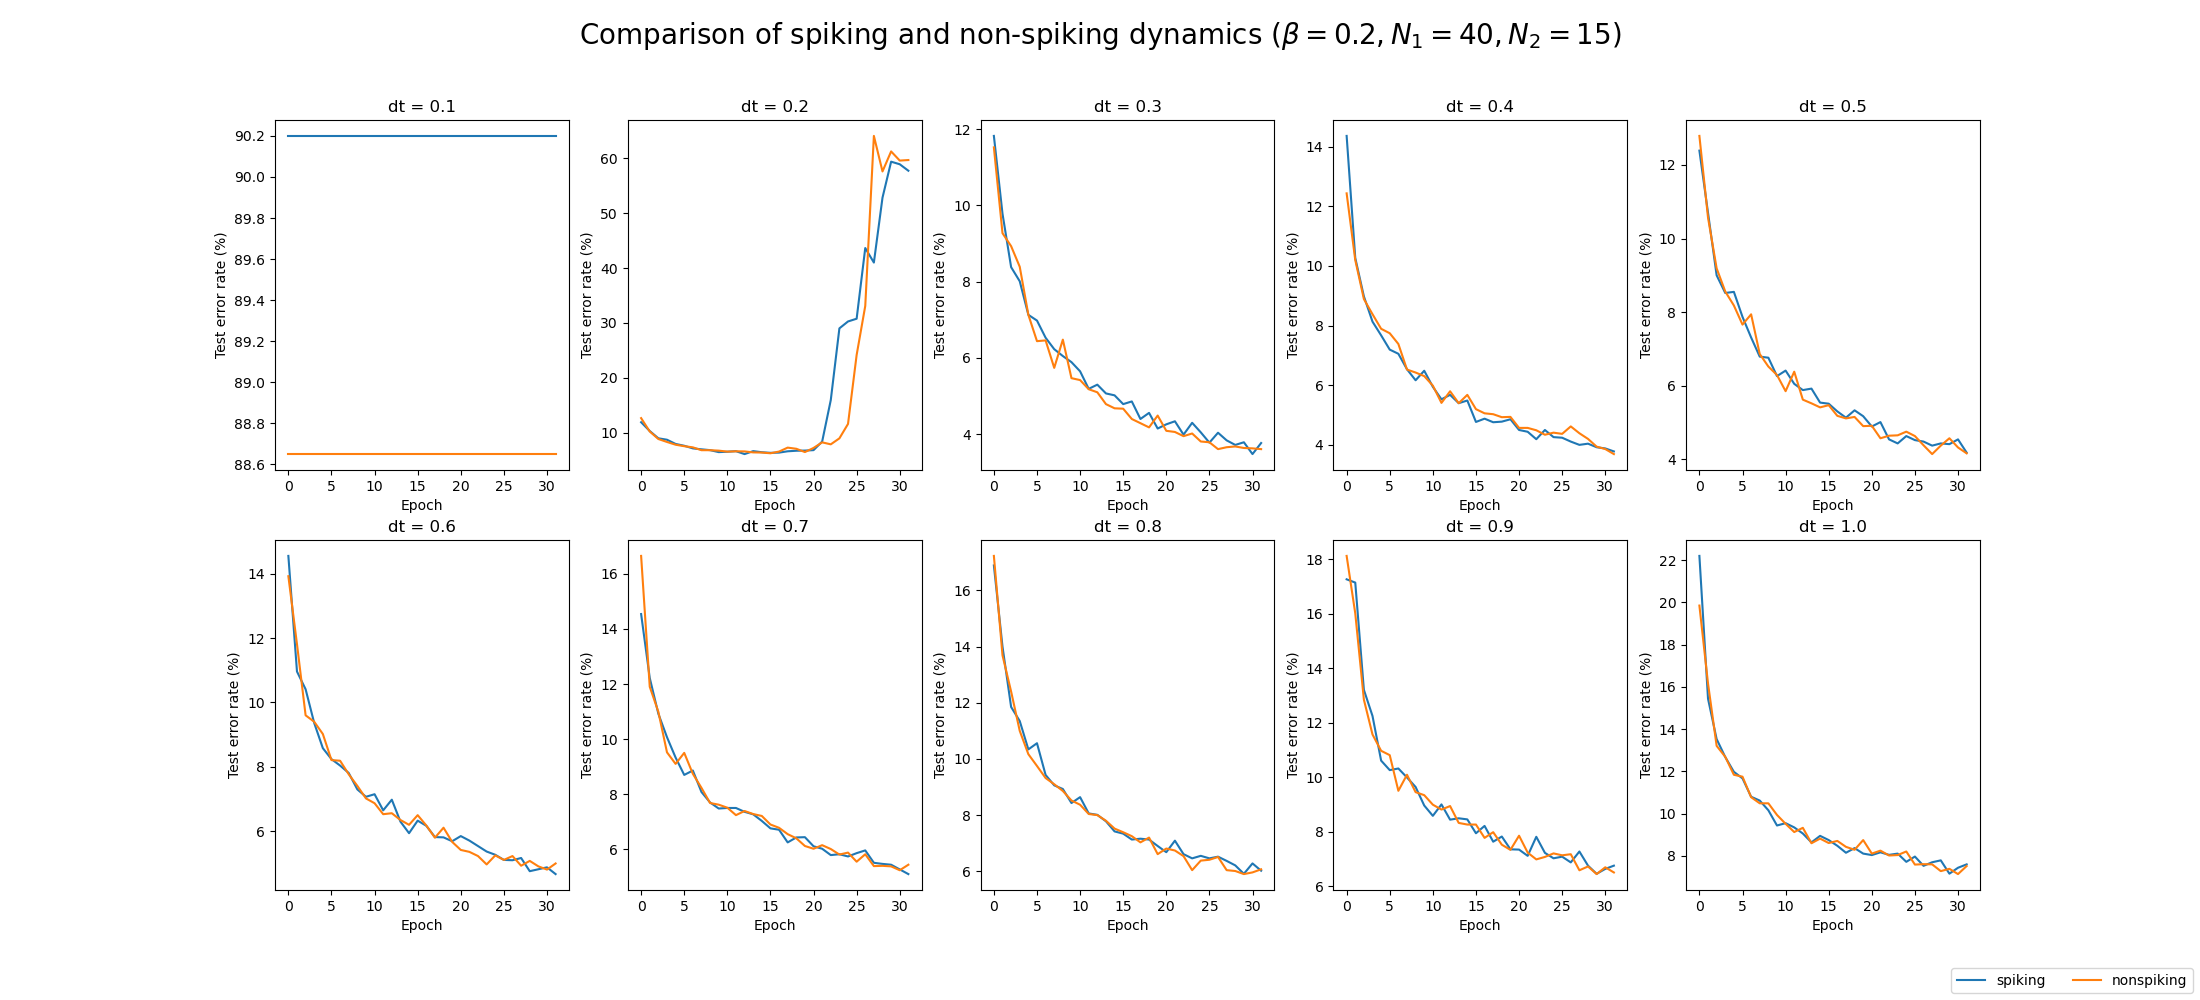
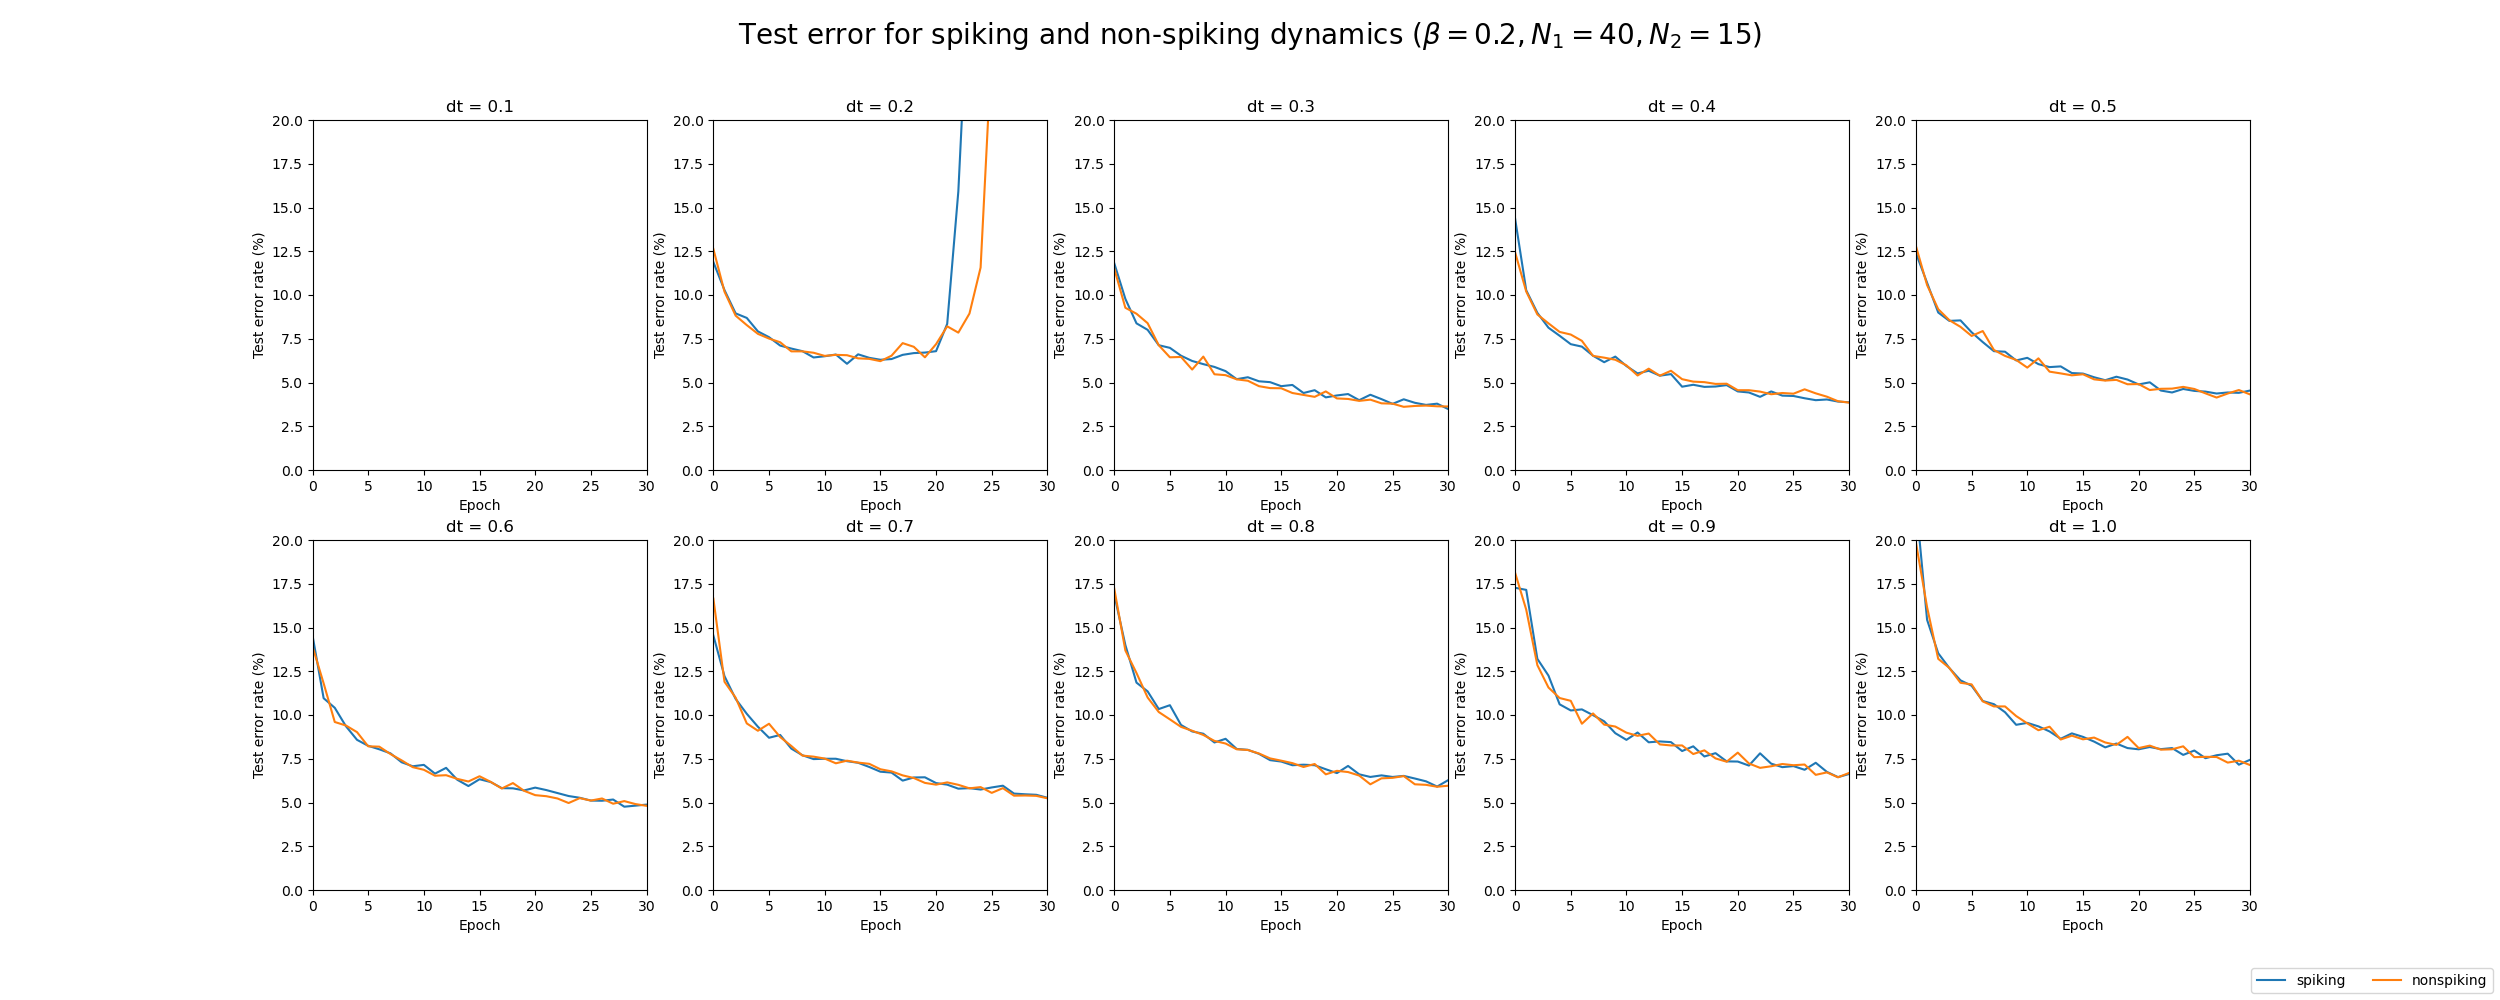
wip

diff --git a/graphUtil.py b/graphUtil.py
@@ -26,7 +26,7 @@ def csv2array(directory):
     return train_error, test_error
 
 
-fig, ax = plt.subplots(2,5,figsize=(22,10))
+fig, ax = plt.subplots(2,5,figsize=(25,10))
 # fig.tight_layout()
 labels=['spiking','nonspiking']
 dt = [0.1,0.2,0.3,0.4,0.5,0.6,0.7,0.8,0.9,1.0]
@@ -39,13 +39,15 @@ for i in range(10):
     ax[i//5,i%5].plot(nonspiking_test_error)
     ax[i//5,i%5].set_xlabel('Epoch')
     ax[i//5,i%5].set_ylabel('Test error rate (%)')
+    ax[i//5,i%5].set_xlim([0,30])
+    ax[i//5,i%5].set_ylim([0,20])
     ax[i//5,i%5].set_title('dt = '+str(dt[i]))
-fig.suptitle(r"Comparison of spiking and non-spiking dynamics ($\beta = 0.2,N_1=40,N_2=15$)",fontsize=20)
+fig.suptitle(r"Test error for spiking and non-spiking dynamics ($\beta = 0.2,N_1=40,N_2=15$)",fontsize=20)
 fig.legend(labels, loc='lower right', ncol=len(labels), bbox_transform=fig.transFigure)
 fig.savefig('cepalt_error.png')#,bbox_inches="tight")
 
 
-fig, ax = plt.subplots(2,5,figsize=(22,10))
+fig, ax = plt.subplots(2,5,figsize=(25,10))
 # fig.tight_layout()
 labels=['spiking','nonspiking']
 N2 = [3*i for i in range(1,11)]
@@ -58,8 +60,10 @@ for i in range(10):
     ax[i//5,i%5].plot(nonspiking_test_error)
     ax[i//5,i%5].set_xlabel('Epoch')
     ax[i//5,i%5].set_ylabel('Test error rate (%)')
+    ax[i//5,i%5].set_xlim([0,30])
+    ax[i//5,i%5].set_ylim([0,20])
     ax[i//5,i%5].set_title(r'$N_1=$'+str(3*N2[i])+', $N_2=$'+str(N2[i])+', dt = '+'{:.2f}'.format(1-(2**(-20/(3*N2[i])))))
-fig.suptitle(r"Comparison of spiking and non-spiking dynamics ($\beta = 0.2$)",fontsize=20)
+fig.suptitle(r"Test error for spiking and nonspiking dynamics ($\beta = 0.2$)",fontsize=20)
 fig.legend(labels, loc='lower right', ncol=len(labels), bbox_transform=fig.transFigure)
 fig.savefig('cepalt_error_b.png')#,bbox_inches="tight")
 
